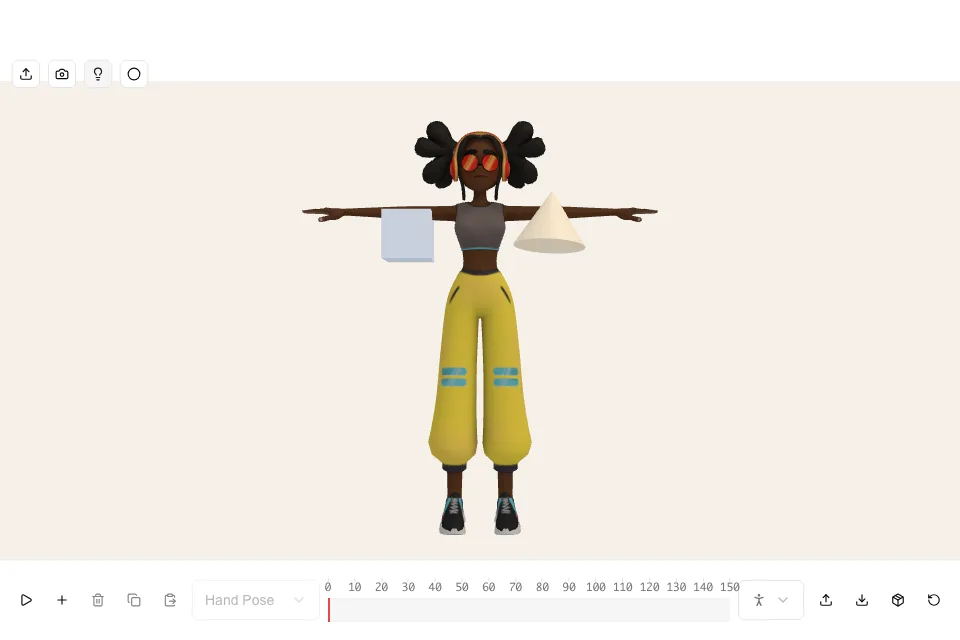
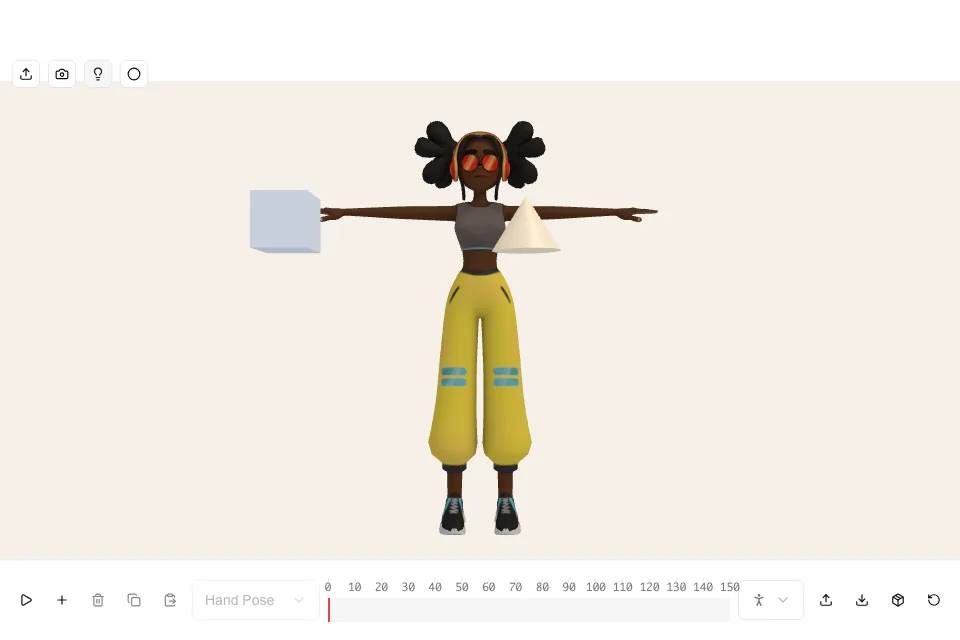
feat: pull the lamp in close and push the spawn cube further out
The lamp now hangs close against the rig's own side instead of out toward
the wall, and the spawn cube gets its own, larger offset so reaching it
takes an actual stretch rather than sitting right where a resting hand
already is. Both share the same forward offset toward the camera, so they
read as a matched pair at the same depth rather than one sitting further
back than the other.

Changed region(s): [[0.25, 0.2812, 0.3438, 0.4062], [0.5, 0.3125, 0.625, 0.4062], [0.375, 0.3125, 0.4688, 0.4062]]

diff --git a/src/views/Tools/RigAnimator/config.ts b/src/views/Tools/RigAnimator/config.ts
@@ -108,11 +108,12 @@ export const DEFAULT_ENCLOSURE_OPACITY = 0
 
 /** How far above the rig's feet the lamp's pivot sits, as a fraction of the rig's spread. */
 export const LAMP_ANCHOR_HEIGHT_FRACTION = 1
-/** How far to the side of the rig the pivot sits: inside the enclosure, between the rig and the
- * wall (the wall's inner face is ENCLOSURE_SIZE_FRACTION / 2 out), not past it. */
-export const LAMP_ANCHOR_SIDE_OFFSET_FRACTION = 0.15
-/** How far toward the camera the pivot sits, in front of the rig rather than level with it. */
-export const LAMP_ANCHOR_DEPTH_FRACTION = 0.2
+/** How far to the side of the rig the pivot sits: close against the body rather than out by
+ * the wall. */
+export const LAMP_ANCHOR_SIDE_OFFSET_FRACTION = 0.08
+/** How far toward the camera the lamp and the spawn cube both sit, in front of the rig rather
+ * than level with it, so the two read as a matched pair at the same depth. */
+export const PHYSICS_PROP_DEPTH_FRACTION = 0.2
 /** Length of the rigid arm between the pivot and the lamp, as a fraction of the rig's spread. */
 export const LAMP_ARM_LENGTH_FRACTION = 0.4
 export const LAMP_RADIUS_FRACTION = 0.063
@@ -133,8 +134,10 @@ export const LAMP_METALNESS = 0.1
  * knock can barely budge rather than something light hanging off a wire. */
 export const LAMP_WEIGHT_MULTIPLIER = 4
 
-/** A touch-sensor cube on the rig's other side, mirroring the lamp: no collision response, just
- * detects the rig's own bones brushing it and spawns a marble. */
+/** A touch-sensor cube on the rig's other side, no collision response, just detects the rig's
+ * own bones brushing it and spawns a marble. Further out than the lamp sits close in, so
+ * reaching it takes an actual, deliberate stretch. */
+export const SPAWN_CUBE_SIDE_OFFSET_FRACTION = 0.35
 export const SPAWN_CUBE_SIZE_FRACTION = 0.1
 /** Same height as the lamp's own resting point, so both read as a matched pair. */
 export const SPAWN_CUBE_HEIGHT_FRACTION = LAMP_ANCHOR_HEIGHT_FRACTION - LAMP_ARM_LENGTH_FRACTION

diff --git a/src/views/Tools/RigAnimator/useRigPhysics.ts b/src/views/Tools/RigAnimator/useRigPhysics.ts
@@ -7,12 +7,13 @@ import type { TimelineManager } from '@webgamekit/animation'
 import { computeRigDiagonal } from './boneMarkers'
 import {
   DEFAULT_POSITION_RANGE,
-  LAMP_ANCHOR_DEPTH_FRACTION,
   LAMP_ANCHOR_HEIGHT_FRACTION,
   LAMP_ANCHOR_SIDE_OFFSET_FRACTION,
   MARBLE_DROP_HEIGHT_FRACTION,
   MARBLE_GRAVITY_REFERENCE_SPREAD,
+  PHYSICS_PROP_DEPTH_FRACTION,
   SPAWN_CUBE_HEIGHT_FRACTION,
+  SPAWN_CUBE_SIDE_OFFSET_FRACTION,
   SPAWN_CUBE_SIZE_FRACTION
 } from './config'
 import { buildMarbleDropPosition, pickMarbleRadius, pickMarbleTexture } from './marbles'
@@ -152,7 +153,7 @@ const createHangingLampState = ({
     const anchorPosition: CoordinateTuple = [
       center[0] + diagonal * LAMP_ANCHOR_SIDE_OFFSET_FRACTION,
       center[1] + diagonal * LAMP_ANCHOR_HEIGHT_FRACTION,
-      center[2] + diagonal * LAMP_ANCHOR_DEPTH_FRACTION
+      center[2] + diagonal * PHYSICS_PROP_DEPTH_FRACTION
     ]
     hangingLamp = createHangingLamp(currentScene, currentWorld, anchorPosition, diagonal)
   }
@@ -186,9 +187,9 @@ const createSpawnCubeState = ({ scene, world, model, config, rigDiagonal }: Phys
     const diagonal = rigDiagonal()
     const center = (model.value?.position.toArray() ?? [0, 0, 0]) as CoordinateTuple
     const position: CoordinateTuple = [
-      center[0] - diagonal * LAMP_ANCHOR_SIDE_OFFSET_FRACTION,
+      center[0] - diagonal * SPAWN_CUBE_SIDE_OFFSET_FRACTION,
       center[1] + diagonal * SPAWN_CUBE_HEIGHT_FRACTION,
-      center[2]
+      center[2] + diagonal * PHYSICS_PROP_DEPTH_FRACTION
     ]
     spawnCube = createSpawnCube(
       currentScene,

diff --git a/documentation/docs/guides/rig-animator.md b/documentation/docs/guides/rig-animator.md
@@ -573,7 +573,7 @@ rather than a silhouette: a cupped hand catches marbles, a flat one does not, an
 timeline back sweeps them around as the limbs move through them. It mirrors the Config panel's
 own **Physics: Simulate** checkbox, the same toggle either way.
 
-![The rig in its rest pose with physics on: a cone-shaded lamp hanging beside its right arm and a touch-sensor cube beside its left](/img/animation/rig-physics-lamp-cube.webp)
+![The rig in its rest pose with physics on: a cone-shaded lamp hanging close against its right side and a touch-sensor cube further out past its left hand](/img/animation/rig-physics-lamp-cube.webp)
 
 Turning physics on does not by itself drop anything: it builds the bone capsules, the enclosure,
 a heavy cone-shaded lamp hung close to the camera on a rigid pivot arm, and a cube on the rig's
